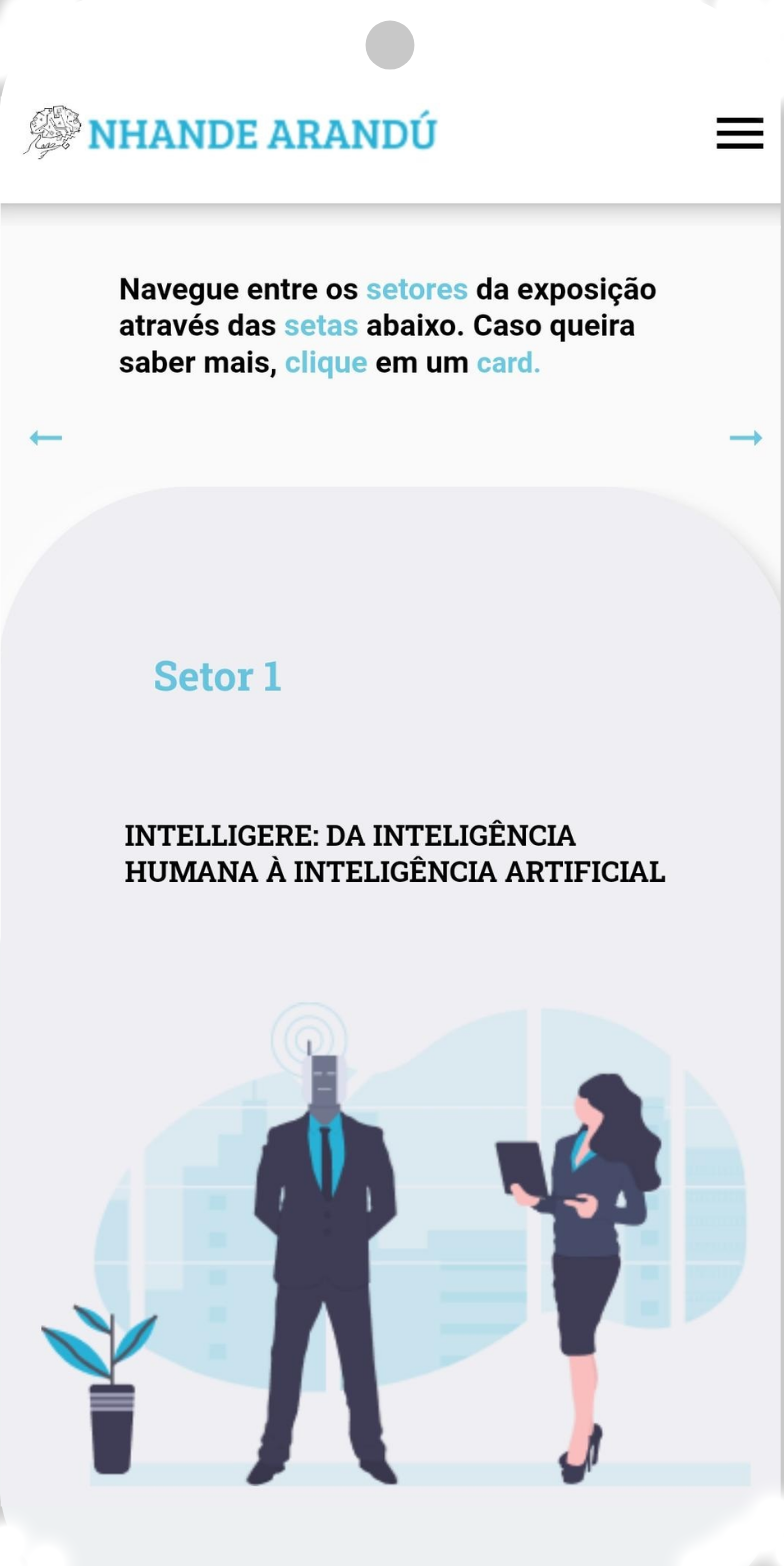
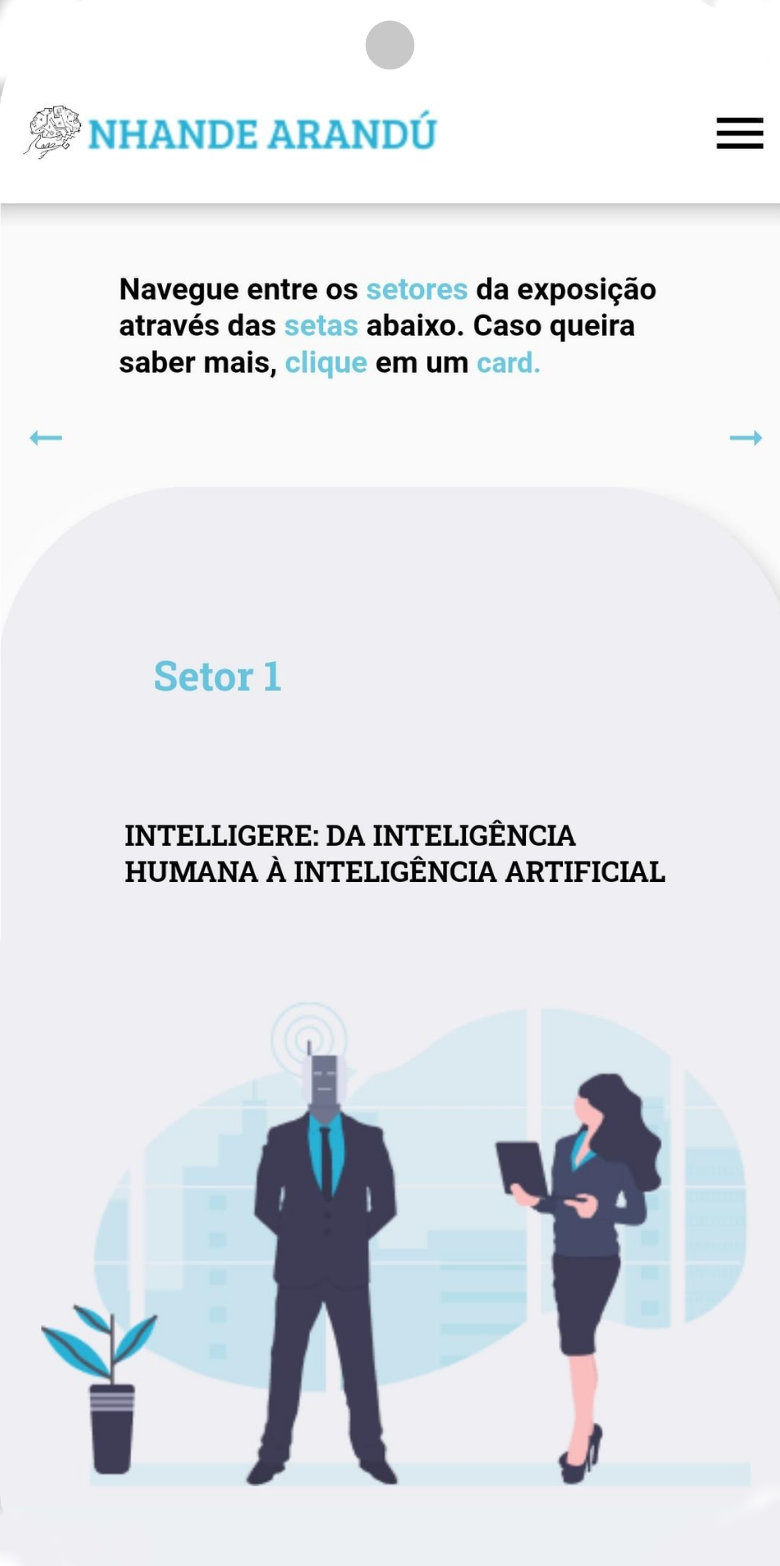
adjust app screen preview

diff --git a/styles/mobile_style.css b/styles/mobile_style.css
@@ -64,7 +64,7 @@ a {
 #app-screen {
     width: 100%;
     height: 100%;
-    border-radius: 45px;
+    border-radius: 45px 45px 25px 25px;
 }
 #description {
     margin: 0 45px;
